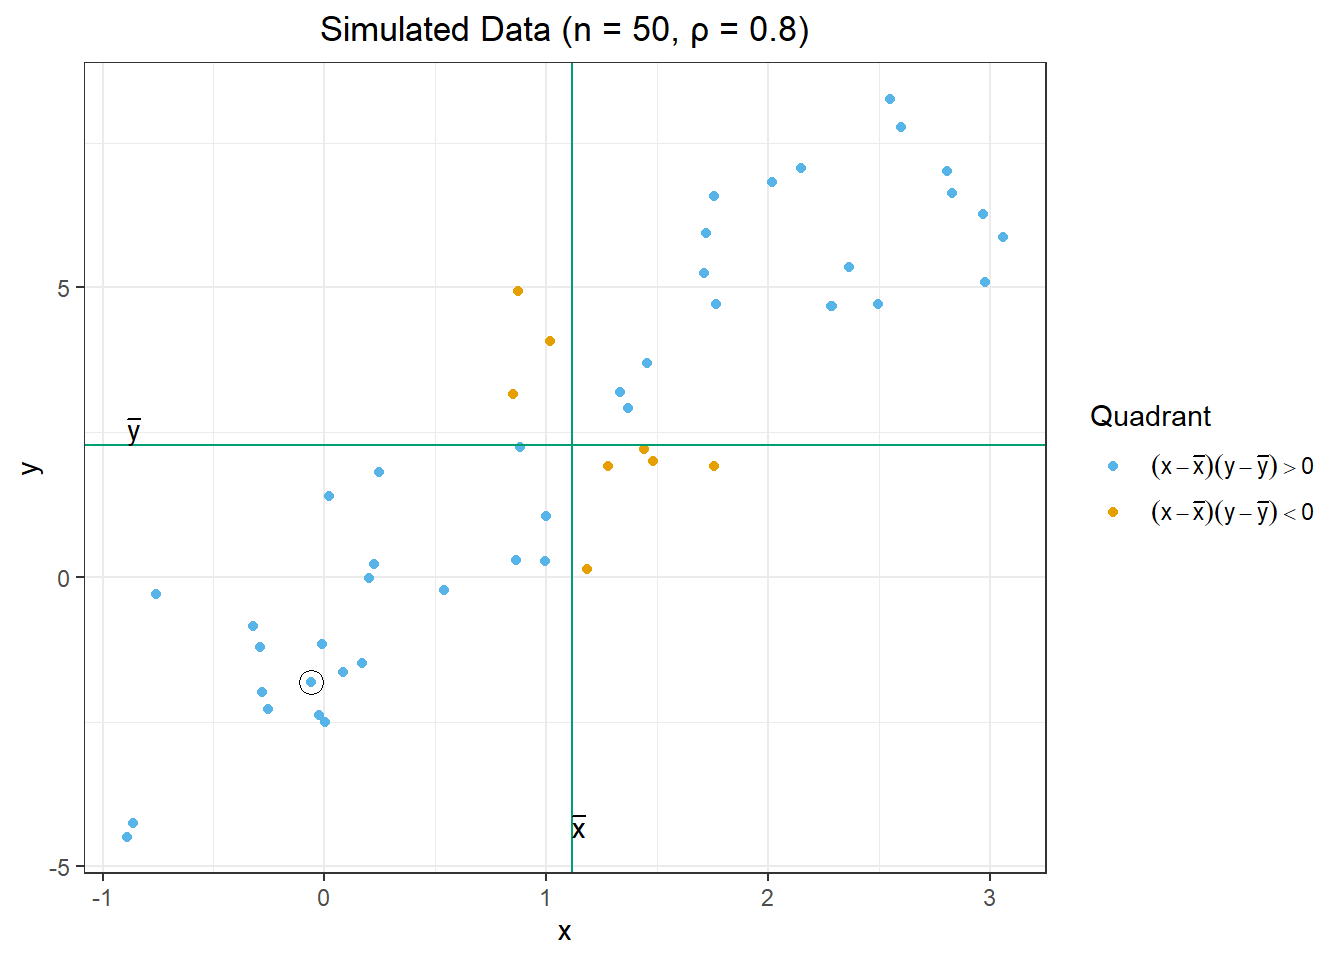
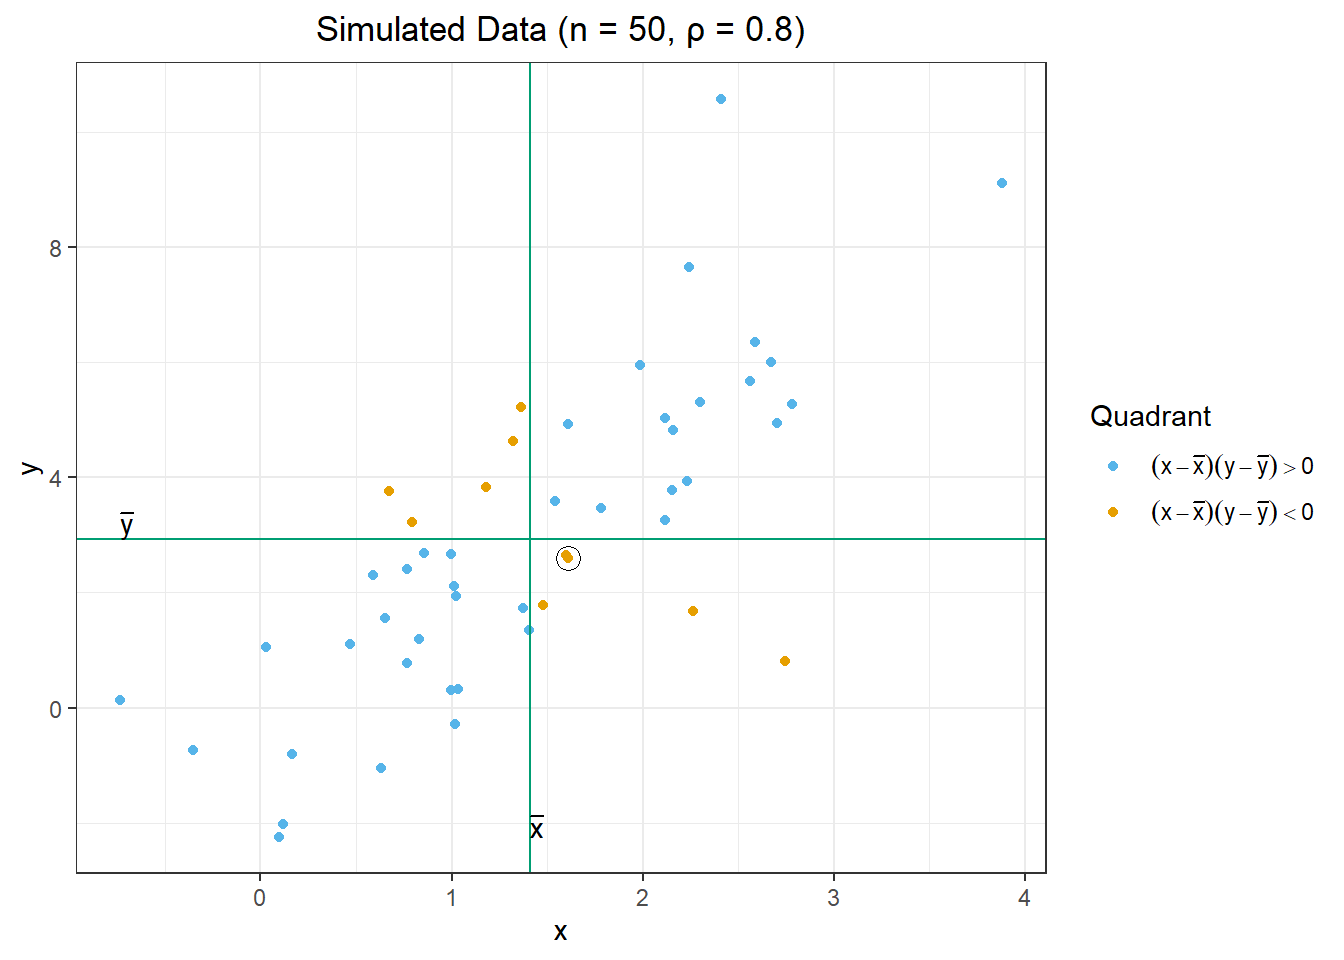
Minor wording change

diff --git a/chapter_2/chapter_2_lesson_1_class.html b/chapter_2/chapter_2_lesson_1_class.html
@@ -324,7 +324,7 @@ Compute the key statistics used to describe the linear relationship between two 
 <ul>
 <li>Review another student’s journal</li>
 <li>What would you add to your learning journal after reading your partner’s?</li>
-<li>What would you recommend the other student add to their learning journal?</li>
+<li>What would you recommend your partner add to their learning journal?</li>
 <li>Sign the Learning Journal review sheet for your peer</li>
 </ul>
 </section>
@@ -460,7 +460,7 @@ Caution
 <span id="cb5-21"><a href="#cb5-21" aria-hidden="true" tabindex="-1"></a>  <span class="fu">data.frame</span>() <span class="sc">%&gt;%</span> </span>
 <span id="cb5-22"><a href="#cb5-22" aria-hidden="true" tabindex="-1"></a>  <span class="fu">rename</span>(<span class="at">x =</span> X1, <span class="at">y =</span> X2)</span></code><button title="Copy to Clipboard" class="code-copy-button"><i class="bi"></i></button></pre></div>
 </div>
-<p>The following table illustrates some of the simulated values. The mean of the <span class="math inline">\(x\)</span> values is <span class="math inline">\(\bar x = 1.118\)</span>. The mean of the <span class="math inline">\(y\)</span> values is <span class="math inline">\(\bar y =2.269\)</span>. We will soon use the values <span class="math inline">\((x-\bar x)\)</span>, <span class="math inline">\((x-\bar x)^2\)</span>, <span class="math inline">\((y-\bar y)\)</span>, <span class="math inline">\((y-\bar y)^2\)</span>, and <span class="math inline">\((x-\bar x)(y-\bar y)\)</span>. For convenience, they are included in the table below.</p>
+<p>The following table illustrates some of the simulated values. The mean of the <span class="math inline">\(x\)</span> values is <span class="math inline">\(\bar x = 1.412\)</span>. The mean of the <span class="math inline">\(y\)</span> values is <span class="math inline">\(\bar y =2.927\)</span>. We will soon use the values <span class="math inline">\((x-\bar x)\)</span>, <span class="math inline">\((x-\bar x)^2\)</span>, <span class="math inline">\((y-\bar y)\)</span>, <span class="math inline">\((y-\bar y)^2\)</span>, and <span class="math inline">\((x-\bar x)(y-\bar y)\)</span>. For convenience, they are included in the table below.</p>
 <div class="cell">
 <div class="cell-output-display">
 <table class="table table-sm table-striped small" data-quarto-postprocess="true">
@@ -479,63 +479,63 @@ Caution
 <tbody>
 <tr class="odd">
 <td style="text-align: center;">1</td>
-<td style="text-align: center;">-0.059</td>
-<td style="text-align: center;">-1.821</td>
-<td style="text-align: center;">-1.177</td>
-<td style="text-align: center;">1.386</td>
-<td style="text-align: center;">-4.09</td>
-<td style="text-align: center;">16.726</td>
-<td style="text-align: center;"><span style="     color: #E69F00 !important;">4.815</span></td>
+<td style="text-align: center;">1.611</td>
+<td style="text-align: center;">2.597</td>
+<td style="text-align: center;">0.199</td>
+<td style="text-align: center;">0.04</td>
+<td style="text-align: center;">-0.331</td>
+<td style="text-align: center;">0.109</td>
+<td style="text-align: center;"><span style="     color: #56B4E9 !important;">-0.066</span></td>
 </tr>
 <tr class="even">
 <td style="text-align: center;">2</td>
-<td style="text-align: center;">1.281</td>
-<td style="text-align: center;">1.907</td>
-<td style="text-align: center;">0.162</td>
-<td style="text-align: center;">0.026</td>
-<td style="text-align: center;">-0.362</td>
-<td style="text-align: center;">0.131</td>
-<td style="text-align: center;"><span style="     color: #56B4E9 !important;">-0.059</span></td>
+<td style="text-align: center;">0.998</td>
+<td style="text-align: center;">0.303</td>
+<td style="text-align: center;">-0.414</td>
+<td style="text-align: center;">0.171</td>
+<td style="text-align: center;">-2.624</td>
+<td style="text-align: center;">6.886</td>
+<td style="text-align: center;"><span style="     color: #E69F00 !important;">1.086</span></td>
 </tr>
 <tr class="odd">
 <td style="text-align: center;">3</td>
-<td style="text-align: center;">3.059</td>
-<td style="text-align: center;">5.874</td>
-<td style="text-align: center;">1.94</td>
-<td style="text-align: center;">3.765</td>
-<td style="text-align: center;">3.605</td>
-<td style="text-align: center;">12.995</td>
-<td style="text-align: center;"><span style="     color: #E69F00 !important;">6.995</span></td>
+<td style="text-align: center;">2.156</td>
+<td style="text-align: center;">4.825</td>
+<td style="text-align: center;">0.745</td>
+<td style="text-align: center;">0.554</td>
+<td style="text-align: center;">1.898</td>
+<td style="text-align: center;">3.602</td>
+<td style="text-align: center;"><span style="     color: #E69F00 !important;">1.413</span></td>
 </tr>
 <tr class="even">
 <td style="text-align: center;">4</td>
-<td style="text-align: center;">1.713</td>
-<td style="text-align: center;">5.241</td>
-<td style="text-align: center;">0.595</td>
-<td style="text-align: center;">0.354</td>
-<td style="text-align: center;">2.972</td>
-<td style="text-align: center;">8.834</td>
-<td style="text-align: center;"><span style="     color: #E69F00 !important;">1.769</span></td>
+<td style="text-align: center;">0.632</td>
+<td style="text-align: center;">-1.052</td>
+<td style="text-align: center;">-0.78</td>
+<td style="text-align: center;">0.608</td>
+<td style="text-align: center;">-3.98</td>
+<td style="text-align: center;">15.838</td>
+<td style="text-align: center;"><span style="     color: #E69F00 !important;">3.103</span></td>
 </tr>
 <tr class="odd">
 <td style="text-align: center;">5</td>
-<td style="text-align: center;">2.021</td>
-<td style="text-align: center;">6.818</td>
-<td style="text-align: center;">0.902</td>
-<td style="text-align: center;">0.814</td>
-<td style="text-align: center;">4.549</td>
-<td style="text-align: center;">20.692</td>
-<td style="text-align: center;"><span style="     color: #E69F00 !important;">4.104</span></td>
+<td style="text-align: center;">1.016</td>
+<td style="text-align: center;">-0.282</td>
+<td style="text-align: center;">-0.396</td>
+<td style="text-align: center;">0.157</td>
+<td style="text-align: center;">-3.21</td>
+<td style="text-align: center;">10.304</td>
+<td style="text-align: center;"><span style="     color: #E69F00 !important;">1.271</span></td>
 </tr>
 <tr class="even">
 <td style="text-align: center;">6</td>
-<td style="text-align: center;">-0.863</td>
-<td style="text-align: center;">-4.255</td>
-<td style="text-align: center;">-1.981</td>
-<td style="text-align: center;">3.924</td>
-<td style="text-align: center;">-6.524</td>
-<td style="text-align: center;">42.563</td>
-<td style="text-align: center;"><span style="     color: #E69F00 !important;">12.924</span></td>
+<td style="text-align: center;">1.323</td>
+<td style="text-align: center;">4.632</td>
+<td style="text-align: center;">-0.089</td>
+<td style="text-align: center;">0.008</td>
+<td style="text-align: center;">1.705</td>
+<td style="text-align: center;">2.906</td>
+<td style="text-align: center;"><span style="     color: #56B4E9 !important;">-0.152</span></td>
 </tr>
 <tr class="odd">
 <td style="text-align: center;">:</td>
@@ -559,43 +559,43 @@ Caution
 </tr>
 <tr class="odd">
 <td style="text-align: center;">48</td>
-<td style="text-align: center;">-0.279</td>
-<td style="text-align: center;">-1.988</td>
-<td style="text-align: center;">-1.398</td>
-<td style="text-align: center;">1.954</td>
-<td style="text-align: center;">-4.257</td>
-<td style="text-align: center;">18.123</td>
-<td style="text-align: center;"><span style="     color: #E69F00 !important;">5.951</span></td>
+<td style="text-align: center;">0.793</td>
+<td style="text-align: center;">3.218</td>
+<td style="text-align: center;">-0.619</td>
+<td style="text-align: center;">0.383</td>
+<td style="text-align: center;">0.291</td>
+<td style="text-align: center;">0.085</td>
+<td style="text-align: center;"><span style="     color: #56B4E9 !important;">-0.18</span></td>
 </tr>
 <tr class="even">
 <td style="text-align: center;">49</td>
-<td style="text-align: center;">-0.252</td>
-<td style="text-align: center;">-2.289</td>
-<td style="text-align: center;">-1.37</td>
-<td style="text-align: center;">1.878</td>
-<td style="text-align: center;">-4.558</td>
-<td style="text-align: center;">20.777</td>
-<td style="text-align: center;"><span style="     color: #E69F00 !important;">6.246</span></td>
+<td style="text-align: center;">0.119</td>
+<td style="text-align: center;">-2.018</td>
+<td style="text-align: center;">-1.293</td>
+<td style="text-align: center;">1.671</td>
+<td style="text-align: center;">-4.946</td>
+<td style="text-align: center;">24.459</td>
+<td style="text-align: center;"><span style="     color: #E69F00 !important;">6.392</span></td>
 </tr>
 <tr class="odd">
 <td style="text-align: center;">50</td>
-<td style="text-align: center;">0.224</td>
-<td style="text-align: center;">0.219</td>
-<td style="text-align: center;">-0.894</td>
-<td style="text-align: center;">0.799</td>
-<td style="text-align: center;">-2.05</td>
-<td style="text-align: center;">4.203</td>
-<td style="text-align: center;"><span style="     color: #E69F00 !important;">1.833</span></td>
+<td style="text-align: center;">-0.355</td>
+<td style="text-align: center;">-0.731</td>
+<td style="text-align: center;">-1.766</td>
+<td style="text-align: center;">3.12</td>
+<td style="text-align: center;">-3.659</td>
+<td style="text-align: center;">13.385</td>
+<td style="text-align: center;"><span style="     color: #E69F00 !important;">6.462</span></td>
 </tr>
 <tr class="even">
 <td style="text-align: center;">sum</td>
-<td style="text-align: center;">55.918</td>
-<td style="text-align: center;">113.462</td>
+<td style="text-align: center;">70.591</td>
+<td style="text-align: center;">146.374</td>
 <td style="text-align: center;">0</td>
-<td style="text-align: center;">62.004</td>
+<td style="text-align: center;">43.062</td>
 <td style="text-align: center;">0</td>
-<td style="text-align: center;">565.406</td>
-<td style="text-align: center;"><span style="     color: #E69F00 !important;">168.8</span></td>
+<td style="text-align: center;">353.188</td>
+<td style="text-align: center;"><span style="     color: #E69F00 !important;">93.851</span></td>
 </tr>
 </tbody>
 </table>
@@ -620,9 +620,9 @@ Cov(x,y)
 =
 \frac{\sum\limits_{i=1}^n (x - \bar x)(y - \bar y)}{n-1}
 =
-\frac{168.8}{50 - 1}
+\frac{93.851}{50 - 1}
 =
-3.445
+1.915
 \]</span></p>
 <p>You can think of this as an “average” of the <span class="math inline">\((x - \bar x)(y - \bar y)\)</span> values. The only difference is that we divide by <span class="math inline">\(n-1\)</span> instead of <span class="math inline">\(n\)</span>.</p>
 <ul>
@@ -637,38 +637,38 @@ s_x &amp;= \sqrt{ \frac{\sum\limits_{i=1}^n (x - \bar x)^2}{n-1} }
 =
 \sqrt{
 \frac{
-62.004
+43.062
 }{
 50-1
 }
 }
 =
-1.125
+0.937
 \\
 s_y &amp;= \sqrt{ \frac{\sum\limits_{i=1}^n (y - \bar y)^2}{n-1} }
 =
 \sqrt{
 \frac{
-565.406
+353.188
 }{
 50-1
 }
 }
 =
-3.397
+2.685
 \end{align*}
 \]</span></p>
 <p>The sample correlation coefficient is: <span class="math display">\[
 r = \frac{\sum\limits_{i=1}^n (x - \bar x)(y - \bar y)}{\sqrt{\sum\limits_{i=1}^n (x - \bar x)^2} \sqrt{\sum\limits_{i=1}^n (y - \bar y)^2}}
 =
 \frac{
-168.8
+93.851
 }{
-\sqrt{ 62.004}
-\sqrt{ 565.406}
+\sqrt{ 43.062}
+\sqrt{ 353.188}
 }
 =
-0.902
+0.761
 \]</span></p>
 <ul>
 <li><p>What do you get if you multiply the equations for <span class="math inline">\(r\)</span>, <span class="math inline">\(s_x\)</span>, and <span class="math inline">\(s_y\)</span> together?</p>
@@ -689,13 +689,13 @@ r = \frac{\sum\limits_{i=1}^n (x - \bar x)(y - \bar y)}{\sqrt{\sum\limits_{i=1}^
 $$
 Cov(x,y) = r \cdot s_x \cdot s_y 
 =
-0.902
+0.761
 \cdot 
-1.125
+0.937
 \cdot 
-3.397
+2.685
 =
-3.445
+1.915
 $$
  -->
 </section>

diff --git a/chapter_2/chapter_2_lesson_3_class.html b/chapter_2/chapter_2_lesson_3_class.html
@@ -297,7 +297,7 @@ Interpret correlograms to identify significant lags, correlations, trends, and s
 <!-- ## Learning Journal Exchange (10 mins) -->
 <!-- -   Review another student's journal -->
 <!-- -   What would you add to your learning journal after reading your partner's? -->
-<!-- -   What would you recommend the other student add to their learning journal? -->
+<!-- -   What would you recommend your partner add to their learning journal? -->
 <!-- -   Sign the Learning Journal review sheet for your peer -->
 </section>
 <section id="introduction-5-mins" class="level2">

diff --git a/chapter_2/chapter_2_lesson_2_class.html b/chapter_2/chapter_2_lesson_2_class.html
@@ -305,7 +305,7 @@ Calculate sample estimates of autocovariance and autocorrelation functions from 
 <ul>
 <li>Review another student’s journal</li>
 <li>What would you add to your learning journal after reading your partner’s?</li>
-<li>What would you recommend the other student add to their learning journal?</li>
+<li>What would you recommend your partner add to their learning journal?</li>
 <li>Sign the Learning Journal review sheet for your peer</li>
 </ul>
 </section>

diff --git a/chapter_1/chapter_1_lesson_3_class.html b/chapter_1/chapter_1_lesson_3_class.html
@@ -311,7 +311,7 @@ Explain the key theoretical concepts of time series decomposition
 <ul>
 <li>Review another student’s journal</li>
 <li>What would you add to your learning journal after reading your partner’s?</li>
-<li>What would you recommend the other student add to their learning journal?</li>
+<li>What would you recommend your partner add to their learning journal?</li>
 <li>Sign the Learning Journal review sheet for your peer</li>
 </ul>
 </section>

diff --git a/chapter_1/chapter_1_lesson_4_class.html b/chapter_1/chapter_1_lesson_4_class.html
@@ -298,7 +298,7 @@ Explain the key theoretical concepts of time series decomposition
 <ul>
 <li>Review another student’s journal</li>
 <li>What would you add to your learning journal after reading your partner’s?</li>
-<li>What would you recommend the other student add to their learning journal?</li>
+<li>What would you recommend your partner add to their learning journal?</li>
 <li>Sign the Learning Journal review sheet for your peer</li>
 </ul>
 </section>

diff --git a/chapter_1/chapter_1_lesson_2_class.html b/chapter_1/chapter_1_lesson_2_class.html
@@ -350,7 +350,7 @@ Explain the purpose and limitations of forecasting
 <ul>
 <li>Review another student’s journal</li>
 <li>What would you add to your learning journal after reading your partner’s?</li>
-<li>What would you recommend the other student add to their learning journal?</li>
+<li>What would you recommend your partner add to their learning journal?</li>
 <li>Sign the Learning Journal review sheet for your peer</li>
 </ul>
 </section>
